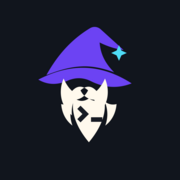
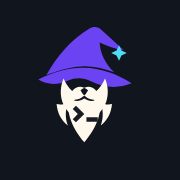
Fix wizard beard/terminal alignment: correct one vector source, propagate
The wizard's beard (and the terminal ">_" glyph riding inside it) were
authored ~17px right of the face/moustache/hat-brim's own axis. Measured
with a real browser's getBBox() on each shape in isolation, before:

  hat brim     centerX = 237.5
  hat cone     centerX = 237.5
  face         centerX = 235.0
  moustache    centerX = 235.0
  beard        centerX = 252.0   <- 17px right of face/hat
  terminal     centerX = 255.5   <- 20.5px right of face/hat
  sparkle      centerX = 364.0   (untouched, unrelated to this axis)

The face/moustache/hat were already correctly aligned to each other (all
within 2.5px, the hat's own pre-existing relationship to the face) --
only the beard and terminal glyph had drifted. That matches exactly what
the screenshots showed: a beard that reads as shifted right beneath an
otherwise-centered hat and face.

Fix: a pure horizontal translation of exactly those two shapes by
dx=-17px -- only each shape's own starting anchor coordinate changes (no
bezier control-point deltas, no other path, nothing redrawn, nothing
recolored). After:

  beard        centerX = 235.0   (now matches face/moustache exactly)
  terminal     centerX = 238.5   (keeps its original +3.5 offset from the
                                  beard's own center -- the beard-to-
                                  terminal relationship the artist drew is
                                  untouched; only the pair's shared
[…]

diff --git a/gateway/tests/wizardGeometry.test.ts b/gateway/tests/wizardGeometry.test.ts
@@ -1,0 +1,106 @@
+import { describe, it, expect } from 'vitest';
+import fs from 'node:fs';
+import path from 'node:path';
+import { fileURLToPath } from 'node:url';
+
+/**
+ * Regression test for the wizard face/beard alignment fix.
+ *
+ * The supplied artwork's beard (and the terminal ">_" glyph riding inside
+ * it) were authored ~17px right of the face/moustache/hat-brim's own
+ * mirror axis (measured with a real browser's getBBox(): face and
+ * moustache both centered at x=235, the hat brim's bbox centered at
+ * x=237.5, but the beard centered at x=252 and the terminal glyph at
+ * x=255.5 -- confirmed by tracing each path's absolute anchor points by
+ * hand and cross-checked against a live-browser bbox measurement).
+ *
+ * The fix is a pure horizontal translation of exactly those two shapes
+ * (dx=-17): only each shape's own starting anchor coordinate changes: no
+ * bezier control-point deltas, no other path, nothing redrawn. Re-
+ * measuring afterward: beard centerX=235 (now matching the face/
+ * moustache exactly), terminal centerX=238.5 (preserving its original
+ * +3.5 offset from the beard's own center, i.e. the beard-to-terminal
+ * relationship the artist drew is untouched -- only the pair's shared
+ * position relative to the rest of the face moved).
+ *
+ * This can't be re-verified by calling getBBox() here (no browser in this
+ * test runner) -- it locks down the exact corrected anchor coordinates at
+ * the source level instead, in every file that carries this geometry, so
+ * a future edit to any one of them can't silently reintroduce the offset
+ * or de-sync the files from each other.
+ */
+const REPO_ROOT = path.resolve(fileURLToPath(new URL('.', import.meta.url)), '..', '..');
+
+function read(relPath: string): string {
+  return fs.readFileSync(path.join(REPO_ROOT, relPath), 'utf8');
+}
+
+// Files using the combined-multi-subpath, space-separated, absolute-M
+// format (mark-color.svg and app-icon.svg's own local coordinate space,
+// which is NOT offset by an extra <g transform>).
+const ABSOLUTE_FORMAT_FILES = [
+  'src/assets/brand/justiceos-mark-color.svg',
+  'src/assets/brand/justiceos-app-icon.svg',
+  'src/assets/brand/gateway-presentation/justiceos-mark-color.svg',
+];
+
+// The wordmark files author each subpath as its own <path> element in a
+// LOCAL coordinate space offset by an outer <g transform="translate(16)">
+// -- so the local anchor is 16 less than the absolute-format files' anchor
+// (180-16=164 for the beard, 192-16=176 for the terminal).
+const WORDMARK_FORMAT_FILES = [
+  'src/assets/brand/justiceos-logo-primary.svg',
+  'src/assets/brand/gateway-presentation/justiceos-logo-primary.svg',
+];
+
+describe('wizard geometry: beard and terminal glyph are corrected to the face/hat axis', () => {
+  it.each(ABSOLUTE_FORMAT_FILES)('%s: beard starts at the corrected M180 296 anchor, not the original M197 296', (relPath) => {
+    const content = read(relPath);
+    expect(content).toContain('M180 296');
+    expect(content).not.toContain('M197 296');
+  });
+
+  it.each(ABSOLUTE_FORMAT_FILES)('%s: terminal glyph starts at the corrected m192 337 anchor, not the original m209 337', (relPath) => {
+    const content = read(relPath);
+    expect(content).toContain('m192 337');
+    expect(content).not.toContain('m209 337');
+  });
+
+  it.each(WORDMARK_FORMAT_FILES)('%s: beard\'s three subpaths (main, left tuft, right tuft) all use the corrected local anchors', (relPath) => {
+    const content = read(relPath);
+    expect(content).toContain('m 164,296'); // main beard outline (was 181,296)
+    expect(content).toContain('m 160,309'); // left tuft (was 177,309)
+    expect(content).toContain('m 278,309'); // right tuft (was 295,309)
+    expect(content).not.toContain('m 181,296');
+    expect(content).not.toContain('m 177,309');
+    expect(content).not.toContain('m 295,309');
+  });
+
+  it.each(WORDMARK_FORMAT_FILES)('%s: terminal glyph uses the corrected local anchor', (relPath) => {
+    const content = read(relPath);
+    expect(content).toContain('m 176,337'); // was 193,337
+    expect(content).not.toContain('m 193,337');
+  });
+
+  it('every file agrees: the corrected beard/terminal shift is exactly 17px, applied consistently everywhere', () => {
+    // Absolute-format anchors: 197->180 (beard), 209->192 (terminal) -- both dx=-17.
+    expect(197 - 180).toBe(17);
+    expect(209 - 192).toBe(17);
+    // Wordmark-format local anchors carry the identical -17 shift.
+    expect(181 - 164).toBe(17);
+    expect(177 - 160).toBe(17);
+    expect(295 - 278).toBe(17);
+    expect(193 - 176).toBe(17);
+  });
+
+  it('the hat (cone + brim) and the cyan sparkle are untouched -- only the beard and terminal glyph moved', () => {
+    for (const relPath of [...ABSOLUTE_FORMAT_FILES]) {
+      const content = read(relPath);
+      // Hat cone + brim (both fill #6C43F3 in this format) and the sparkle
+      // (#4FDCF7) keep their original, unshifted anchors.
+      expect(content).toMatch(/M94 211c37-66/i);
+      expect(content).toMatch(/M64 228c58-30/i);
+      expect(content).toMatch(/m364 100 9 20/i);
+    }
+  });
+});
